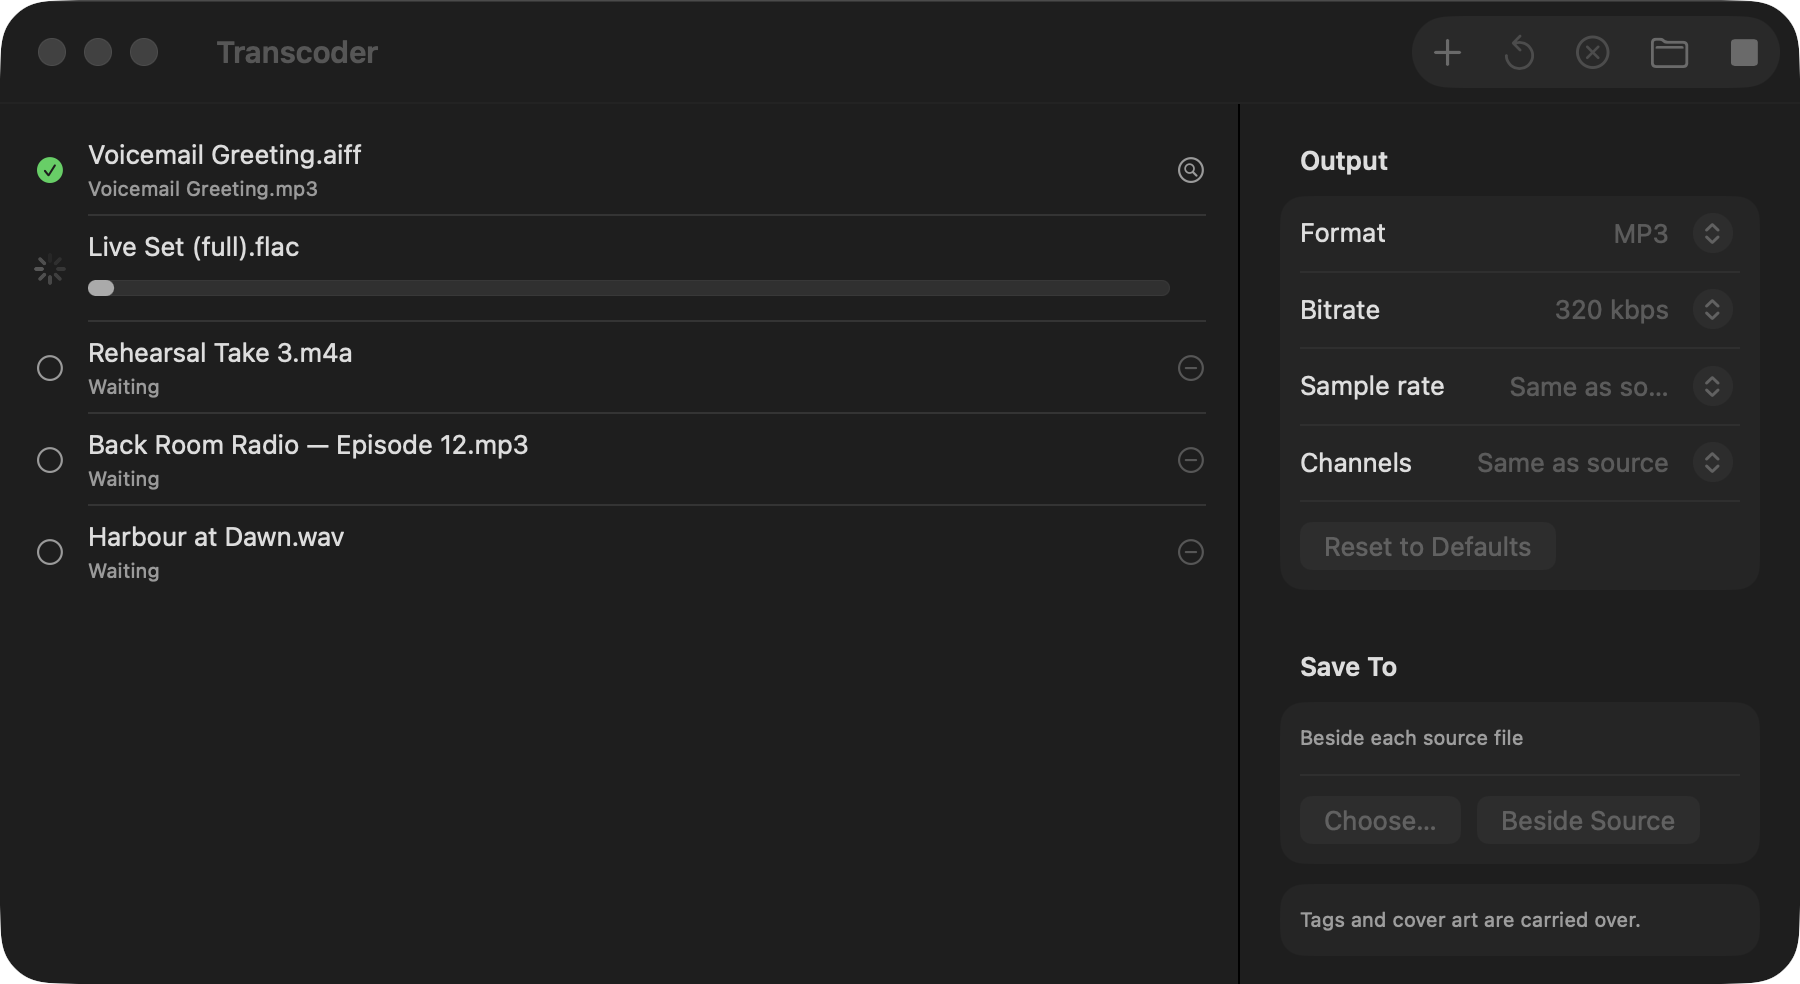
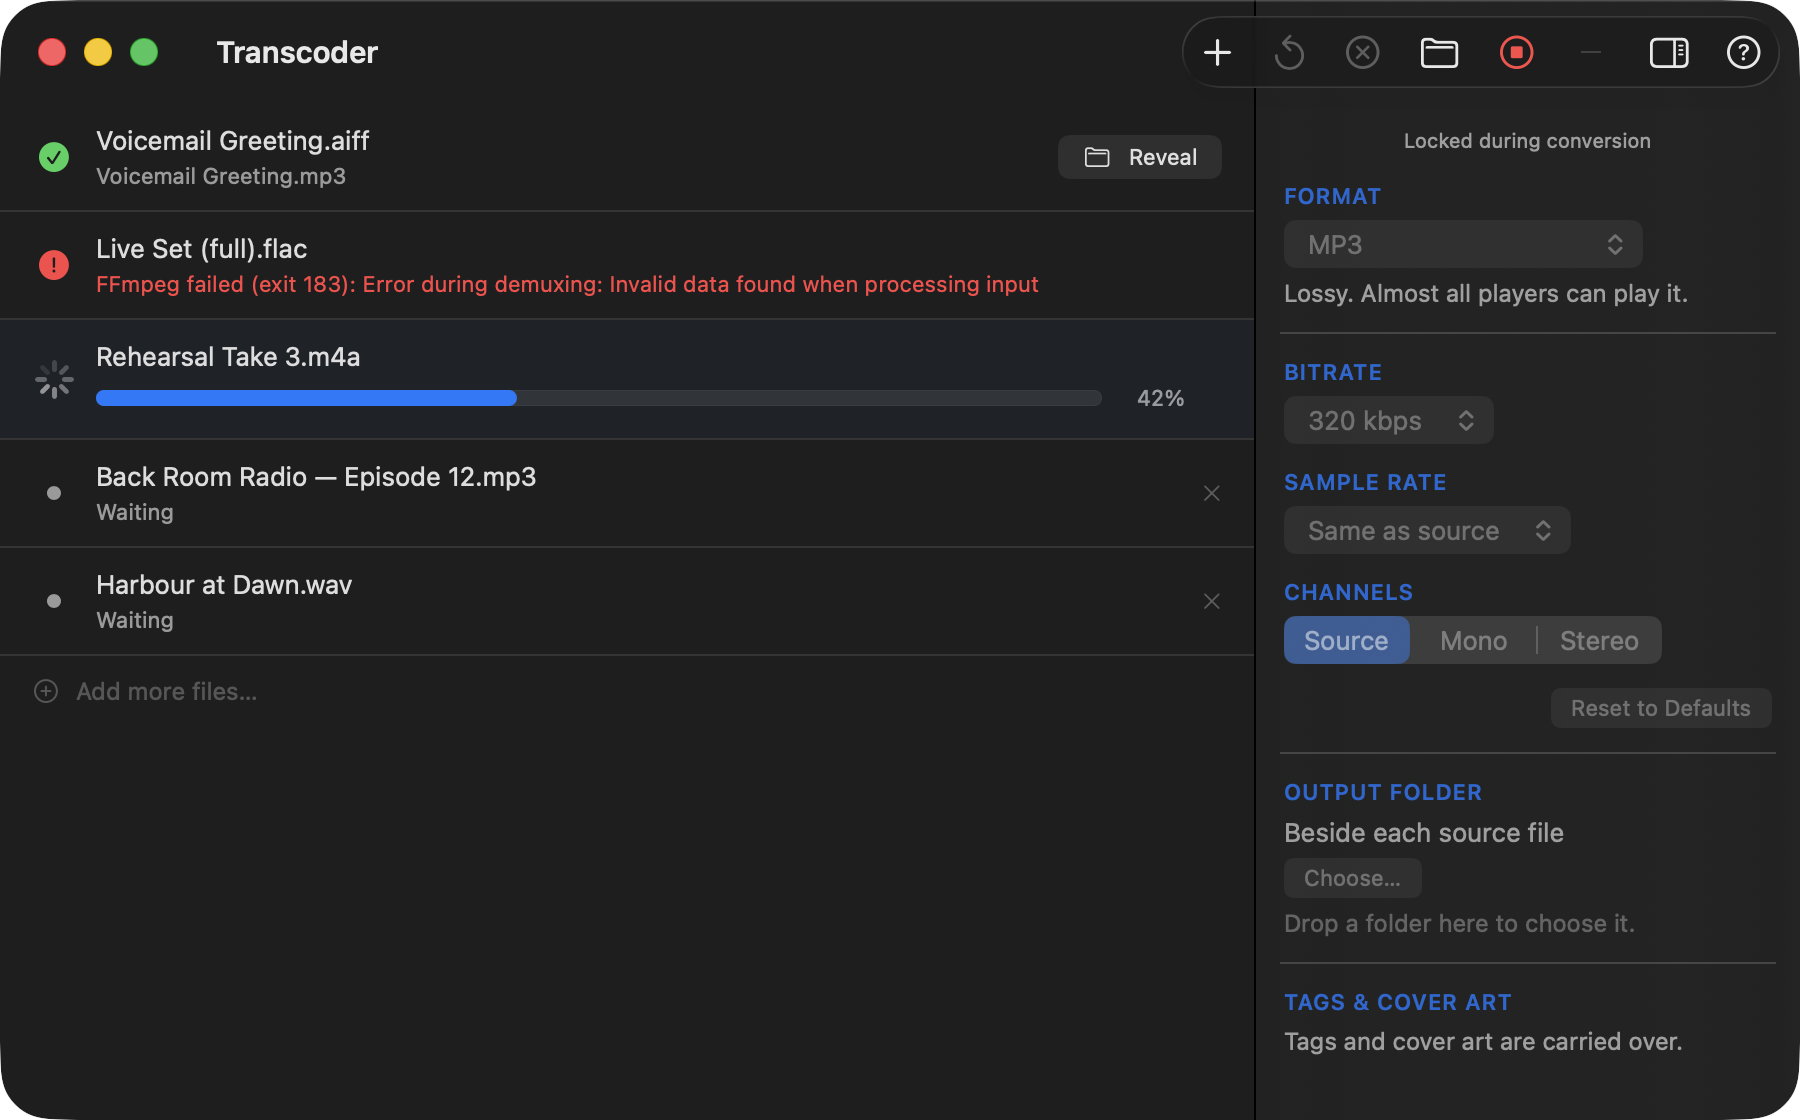
Add a --snapshot mode, and retake the manual's screenshots with it
`Transcoder --snapshot <dir>` opens the window in dark mode, fills the
queue with made-up rows for each state the manual pictures (waiting,
converting at 42%, completed, failed), sets the format each picture
needs (MP3, WAV, Opus), captures the window with `screencapture -l`
and quits. Nothing is converted. The view model's settings go to a
scratch suite named by a path in the temporary folder, as under tests,
and the window has no frame autosave name, so the run leaves the real
domain as it was (its plist's sha256, mtime and export were unchanged
across every run).

The capture goes through the window server because cacheDisplay leaves
out macOS 26's glass: the window background, the toolbar items and the
title came out blank. The run refuses a 1x display rather than shrink,
and waits for the window to be key, failing if macOS declines to make
it active, so no picture shows an inactive window.

The six pictures now show the restyled window. They are taller than
before: the window's minimum went from 440 to 480 pt of content in the
restyle, so 900 x 492 is no longer a size it allows. The shots are
900 x 560 pt (the panels the right-hand 280 pt), enough for Opus's
whole settings column, and the empty queue is 900 x 640 so its
Add Files... button shows. The converting shot gains a failed row, and
the manual's sizes, alt text and two captions follow. The README says
how to rerun it.

diff --git a/Transcoder/Snapshot.swift b/Transcoder/Snapshot.swift
@@ -1,0 +1,256 @@
+import AppKit
+import SwiftUI
+
+/// `Transcoder --snapshot <directory>`: shows the window in each state the
+/// manual pictures, from fixed sample rows, captures it into PNGs in the
+/// directory, and quits. It is how docs/screenshots/ is made: a picture of a full queue or
+/// of a batch half done would otherwise need real files, the Open panel and a
+/// conversion stopped at the right moment.
+///
+/// Nothing is converted and nothing is read: the rows are made up, and each
+/// shot sets their status itself. The view model keeps its settings in
+/// `UserDefaults.app`, which in a snapshot run is a scratch suite, so the
+/// formats chosen for the shots never reach the real settings.
+enum Snapshot {
+    nonisolated static func directory(in arguments: [String]) -> String? {
+        guard let flag = arguments.firstIndex(of: "--snapshot"),
+              flag + 1 < arguments.count else { return nil }
+        return arguments[flag + 1]
+    }
+
+    /// The window's width in points, and its height, title bar included.
+    /// The window goes no shorter than 532 (480 of content under the
+    /// toolbar); 560 shows the whole settings column, Opus's included, and
+    /// the empty queue needs 640 to show its Add Files… button.
+    static let windowWidth = 900
+    static let height = 560
+    /// The manual's pictures are 2x. The window server captures at the
+    /// display's scale, so a run on a 1x display is refused, not shrunk.
+    static let scale = 2
+    /// The settings shots are the window's right-hand 280 pt: the settings
+    /// column and the end of the toolbar.
+    static let panelWidth = 280
+
+    enum Crop { case window, panel }
+
+    struct Shot {
+        let name: String
+        let format: OutputFormat
+        let rows: [(String, QueueItem.Status)]
+        var running = false
+        var crop = Crop.window
+        var height = Snapshot.height
+    }
+
+    static let folder = URL(fileURLWithPath: "/Users/Shared/Recordings", isDirectory: true)
+
+    static let sources = [
+        "Voicemail Greeting.aiff",
+        "Live Set (full).flac",
+        "Rehearsal Take 3.m4a",
+        "Back Room Radio — Episode 12.mp3",
+        "Harbour at Dawn.wav",
+    ]
+
+    static func output(_ source: String, _ format: OutputFormat) -> QueueItem.Status {
+        let name = (source as NSString).deletingPathExtension + "." + format.fileExtension
+        return .done(folder.appendingPathComponent(name))
+    }
+
+    static let failure = ProcessingError.ffmpegFailed(
+        code: 183, message: "Error during demuxing: Invalid data found when processing input"
+    ).localizedDescription
+
+    static let shots: [Shot] = [
+        Shot(name: "tc-idle.png", format: .mp3, rows: [], height: 640),
+        Shot(name: "tc-queue.png", format: .mp3, rows: sources.map { ($0, .pending) }),
+        Shot(name: "tc-converting.png", format: .mp3, rows: [
+            (sources[0], output(sources[0], .mp3)),
+            (sources[1], .failed(failure)),
+            (sources[2], .converting(0.42)),
+            (sources[3], .pending),
+            (sources[4], .pending),
+        ], running: true),
+        Shot(name: "tc-done.png", format: .mp3, rows: sources.map { ($0, output($0, .mp3)) }),
+        // With rows behind them, so the empty queue's scroller stays out of the crop.
+        Shot(name: "tc-wav-panel.png", format: .wav, rows: sources.map { ($0, .pending) }, crop: .panel),
+        Shot(name: "tc-opus-panel.png", format: .opus, rows: sources.map { ($0, .pending) }, crop: .panel),
+    ]
+
+    /// Draws every shot and returns whether each was written.
+    static func run(to directory: String) async -> Bool {
+        let dir = URL(fileURLWithPath: directory, isDirectory: true)
+        do {
+            try FileManager.default.createDirectory(at: dir, withIntermediateDirectories: true)
+        } catch {
+            say("cannot make \(dir.path): \(error.localizedDescription)")
+            return false
+        }
+        defer { removeScratchSuite() }
+
+        // The pictures are of the dark window, as the manual's always were.
+        NSApp.appearance = NSAppearance(named: .darkAqua)
+
+        let vm = ContentViewModel(store: .app)
+        vm.settings = TranscoderSettings()
+        vm.showSettings = true
+
+        let window = makeWindow(vm)
+        window.center()
+        window.makeKeyAndOrderFront(nil)
+
+        var ok = true
+        for shot in shots {
+            vm.isRunning = false
+            vm.settings.format = shot.format
+            vm.items = shot.rows.map { name, status in
+                let item = QueueItem(source: folder.appendingPathComponent(name))
+                item.status = status
+                return item
+            }
+            vm.isRunning = shot.running
+            let size = NSSize(width: windowWidth, height: shot.height)
+            window.setFrame(NSRect(origin: window.frame.origin, size: size), display: true)
+            let active = await activate(window)
+            await settle(window)
+
+            let url = dir.appendingPathComponent(shot.name)
+            if !active || !NSApp.isActive || !window.isKeyWindow {
+                say("could not capture \(shot.name): Transcoder is not the active app, so the window "
+                    + "would be drawn inactive. Leave the keyboard and mouse alone during the run.")
+                ok = false
+            } else if let problem = capture(window, shot, to: url) {
+                say("could not capture \(shot.name): \(problem)")
+                ok = false
+            } else {
+                say("wrote \(url.path)")
+            }
+        }
+        vm.isRunning = false
+        window.close()
+        return ok
+    }
+
+    /// The window as the app's Window scene makes it — title, toolbar and
+    /// all — but with no frame autosave name, so its size is never written to
+    /// the real domain.
+    private static func makeWindow(_ vm: ContentViewModel) -> NSWindow {
+        let root = ContentView()
+            .environment(vm)
+            .frame(minWidth: 740, minHeight: 480)
+        let controller = NSHostingController(rootView: root)
+        controller.sceneBridgingOptions = .all
+        let window = NSWindow(contentViewController: controller)
+        window.title = "Transcoder"
+        window.styleMask = [.titled, .closable, .miniaturizable, .resizable, .fullSizeContentView]
+        window.toolbarStyle = .unified
+        window.isReleasedWhenClosed = false
+        window.setFrameAutosaveName("")
+        window.isRestorable = false
+        return window
+    }
+
+    /// Makes Transcoder the active app and the window key, so it is drawn as
+    /// a window in use. macOS may decline while someone is using another
+    /// app, so it asks again for up to 10 s.
+    private static func activate(_ window: NSWindow) async -> Bool {
+        for _ in 0..<50 {
+            if NSApp.isActive, window.isKeyWindow { return true }
+            NSApp.activate()
+            window.makeKeyAndOrderFront(nil)
+            try? await Task.sleep(for: .milliseconds(200))
+        }
+        return false
+    }
+
+    /// SwiftUI lays the window out over more than one pass: wait until it
+    /// has drawn the same picture twice running. The converting shot's
+    /// spinner never keeps still, so that one waits the full 4 s.
+    private static func settle(_ window: NSWindow) async {
+        try? await Task.sleep(for: .milliseconds(500))
+        var last = render(window)?.tiffRepresentation
+        var steady = 0
+        for _ in 0..<16 {
+            try? await Task.sleep(for: .milliseconds(250))
+            let now = render(window)?.tiffRepresentation
+            steady = now == last ? steady + 1 : 0
+            last = now
+            if steady == 2 { return }
+        }
+    }
+
+    /// What the view draws of the window by itself: enough to tell when the
+    /// layout has stopped changing, though not a picture of the window, since
+    /// it leaves out the glass of the window's background and toolbar.
+    private static func render(_ window: NSWindow) -> NSBitmapImageRep? {
+        guard let view = window.contentView?.superview ?? window.contentView,
+              let rep = view.bitmapImageRepForCachingDisplay(in: view.bounds) else { return nil }
+        view.cacheDisplay(in: view.bounds, to: rep)
+        return rep
+    }
+
+    /// The window as the window server composites it, which is the only
+    /// picture with the glass in it: `screencapture -l`, without the shadow,
+    /// so the corners are transparent as on screen. It needs the Screen
+    /// Recording permission, which macOS asks the app the run was started
+    /// from for (Terminal, say). The settings shots are cropped to the right
+    /// of the window. Returns what went wrong, or nil.
+    private static func capture(_ window: NSWindow, _ shot: Shot, to url: URL) -> String? {
+        let tool = Process()
+        tool.executableURL = URL(fileURLWithPath: "/usr/sbin/screencapture")
+        tool.arguments = ["-x", "-o", "-t", "png", "-l", String(window.windowNumber), url.path]
+        do { try tool.run() } catch { return error.localizedDescription }
+        tool.waitUntilExit()
+        guard tool.terminationStatus == 0,
+              let data = try? Data(contentsOf: url),
+              let rep = NSBitmapImageRep(data: data), let image = rep.cgImage else {
+            return "screencapture wrote no picture (does the app you ran this from have Screen Recording?)"
+        }
+        let width = windowWidth * scale, height = shot.height * scale
+        guard image.width == width, image.height == height else {
+            return "it is \(image.width)×\(image.height) px, not \(width)×\(height): run it on a 2x display"
+        }
+        guard shot.crop == .panel else { return nil }
+        let panel = panelWidth * scale
+        guard let cropped = image.cropping(to: CGRect(x: width - panel, y: 0, width: panel, height: height)) else {
+            return "could not crop it"
+        }
+        let out = NSBitmapImageRep(cgImage: cropped)
+        out.size = NSSize(width: panelWidth, height: shot.height)
+        guard let png = out.representation(using: .png, properties: [:]),
+              (try? png.write(to: url)) != nil else { return "could not write the crop" }
+        return nil
+    }
+
+    /// The scratch suite's file, so a run leaves nothing in the temporary
+    /// folder for the next one to start from.
+    private static func removeScratchSuite() {
+        guard let path = UserDefaults.snapshotSuitePath else { return }
+        UserDefaults.app.removePersistentDomain(forName: path)
+        try? FileManager.default.removeItem(atPath: path + ".plist")
+    }
+
+    private static func say(_ text: String) {
+        FileHandle.standardError.write(Data("transcoder: \(text)\n".utf8))
+    }
+}
+
+/// The app a snapshot run launches instead of TranscoderApp: no window of its
+/// own, no update check, and no view model but the snapshot's.
+struct SnapshotApp: App {
+    @NSApplicationDelegateAdaptor(SnapshotDelegate.self) private var delegate
+
+    var body: some Scene {
+        Settings { EmptyView() }
+    }
+}
+
+final class SnapshotDelegate: NSObject, NSApplicationDelegate {
+    func applicationDidFinishLaunching(_ notification: Notification) {
+        guard let directory = Snapshot.directory(in: CommandLine.arguments) else { return }
+        Task {
+            let ok = await Snapshot.run(to: directory)
+            exit(ok ? 0 : 1)
+        }
+    }
+}

diff --git a/docs/manual/index.html b/docs/manual/index.html
@@ -449,7 +449,7 @@
   </div>
 
   <figure class="shot">
-    <img src="../screenshots/tc-done.png" width="1800" height="984" alt="The Transcoder window: five completed rows in the queue on the left, the MP3 settings in the settings pane on the right">
+    <img src="../screenshots/tc-done.png" width="1800" height="1120" alt="The Transcoder window: five completed rows in the queue on the left, the MP3 settings in the settings pane on the right">
     <figcaption>A completed batch. Each row shows the name of its output file.</figcaption>
   </figure>
 
@@ -493,7 +493,7 @@
     <p>The Transcoder window has two parts. The queue is on the left. The settings pane is on the right.</p>
 
     <figure class="shot">
-      <img src="../screenshots/tc-idle.png" width="1800" height="984" alt="The Transcoder window with an empty queue and the Add Files button">
+      <img src="../screenshots/tc-idle.png" width="1800" height="1280" alt="The Transcoder window with an empty queue and the Add Files button">
       <figcaption>An empty queue. Drag files onto it, or click the Add Files… button.</figcaption>
     </figure>
 
@@ -556,7 +556,7 @@
     </ol>
 
     <figure class="shot">
-      <img src="../screenshots/tc-queue.png" width="1800" height="984" alt="Five files that wait in the queue">
+      <img src="../screenshots/tc-queue.png" width="1800" height="1120" alt="Five files that wait in the queue">
       <figcaption>Five files wait in the queue. The source files are AIFF, FLAC, Apple Lossless, MP3 and WAV.</figcaption>
     </figure>
 
@@ -614,11 +614,11 @@
 
     <div class="shot-pair">
       <figure class="shot">
-        <img src="../screenshots/tc-wav-panel.png" width="560" height="984" alt="Settings for WAV: Bit depth 24-bit, Sample rate and Channels Same as source">
-        <figcaption>A lossless format has a Bit depth menu, not a Bitrate menu.</figcaption>
+        <img src="../screenshots/tc-wav-panel.png" width="560" height="1120" alt="Settings for WAV: Bit depth 24-bit, Sample rate Same as source, Channels Source">
+        <figcaption>A lossless format has Bit depth buttons, not a Bitrate menu.</figcaption>
       </figure>
       <figure class="shot">
-        <img src="../screenshots/tc-opus-panel.png" width="560" height="984" alt="Settings for Opus: Bitrate 128 kbps, Sample rate 48 kHz">
+        <img src="../screenshots/tc-opus-panel.png" width="560" height="1120" alt="Settings for Opus: Bitrate 128 kbps, Sample rate 48 kHz">
         <figcaption>For Opus, the sample rate is always 48 kHz.</figcaption>
       </figure>
     </div>
@@ -697,8 +697,8 @@
     <p>When you click the <strong>Convert</strong> button, Transcoder converts all rows that are waiting. It converts one file at a time, from the top of the queue to the bottom. It uses the format, the settings and the output folder that are set when you click <strong>Convert</strong>. You cannot change the settings until the batch is completed.</p>
 
     <figure class="shot">
-      <img src="../screenshots/tc-converting.png" width="1800" height="984" alt="A batch in progress: one file completed, one file with a progress bar, three files that wait">
-      <figcaption>A batch in progress. The current file shows a progress bar.</figcaption>
+      <img src="../screenshots/tc-converting.png" width="1800" height="1120" alt="A batch in progress: one file completed, one file failed with FFmpeg's message in red, one file with a progress bar, two files that wait">
+      <figcaption>A batch in progress. The current file shows a progress bar, and a failed file shows the cause.</figcaption>
     </figure>
 
     <h3>Row Status</h3>

diff --git a/Transcoder/TranscoderApp.swift b/Transcoder/TranscoderApp.swift
@@ -9,6 +9,8 @@ enum AppLauncher {
     static func main() {
         if isHostingTests {
             TestHostApp.main()
+        } else if Snapshot.directory(in: CommandLine.arguments) != nil {
+            SnapshotApp.main()
         } else {
             TranscoderApp.main()
         }
@@ -29,13 +31,24 @@ private struct TestHostApp: App {
 
 extension UserDefaults {
     /// Where the app keeps what it stores in defaults: its own domain, except in
-    /// a test run, where that would be the developer's real settings. A test run
-    /// gets a scratch suite named by a path in the temporary folder, which keeps
-    /// it out of ~/Library/Preferences. Nothing in the app names `.standard`.
-    nonisolated static let app: UserDefaults = AppLauncher.isHostingTests
-        ? UserDefaults(suiteName: FileManager.default.temporaryDirectory
-            .appendingPathComponent("io.github.sevmorris.Transcoder.tests").path)!
-        : .standard
+    /// a test run or a `--snapshot` run, where that would be the developer's
+    /// real settings. Those get a scratch suite named by a path in the
+    /// temporary folder, which keeps it out of ~/Library/Preferences. Nothing
+    /// in the app names `.standard`.
+    nonisolated static let app: UserDefaults = {
+        let scratch = AppLauncher.isHostingTests
+            ? FileManager.default.temporaryDirectory
+                .appendingPathComponent("io.github.sevmorris.Transcoder.tests").path
+            : snapshotSuitePath
+        return scratch.map { UserDefaults(suiteName: $0)! } ?? .standard
+    }()
+
+    /// The scratch suite of a `--snapshot` run, and nil in any other.
+    nonisolated static let snapshotSuitePath: String? =
+        !AppLauncher.isHostingTests && Snapshot.directory(in: CommandLine.arguments) != nil
+            ? FileManager.default.temporaryDirectory
+                .appendingPathComponent("io.github.sevmorris.Transcoder.snapshot").path
+            : nil
 }
 
 struct TranscoderApp: App {

diff --git a/README.md b/README.md
@@ -38,6 +38,20 @@ xcodebuild -project Transcoder.xcodeproj -scheme Transcoder test
 
 The tests include an end-to-end conversion of a tagged sample with cover art to every format, run through the bundled FFmpeg in a temporary folder. A test run never touches the app's real settings: hosting tests, the app starts with no window, and `UserDefaults.app` is a scratch suite.
 
+### Screenshots
+
+The pictures in `docs/screenshots/` come from the app itself:
+
+```bash
+xcodebuild -project Transcoder.xcodeproj -scheme Transcoder -configuration Release -destination 'generic/platform=macOS' -derivedDataPath build
+```
+
+```bash
+build/Build/Products/Release/Transcoder.app/Contents/MacOS/Transcoder --snapshot docs/screenshots
+```
+
+It opens the window in dark mode, fills the queue with made-up rows for each state (waiting, converting, completed, failed), sets the format each picture needs, captures the window with `screencapture -l`, and quits. Nothing is converted. The settings go to a scratch suite, not the app's real settings. The run needs a 2x display, and Screen Recording permission for the app you start it from, such as Terminal. Leave the keyboard and mouse alone while it runs: the window must stay the active window, or the run stops and says so. If the window's size or layout changes, check the `width` and `height` of each picture in `docs/manual/index.html`. The list of shots is in `Transcoder/Snapshot.swift`.
+
 ## Licence
 
 MIT (see `LICENSE`). The bundled FFmpeg is LGPL; see `Vendor/README.md`.
